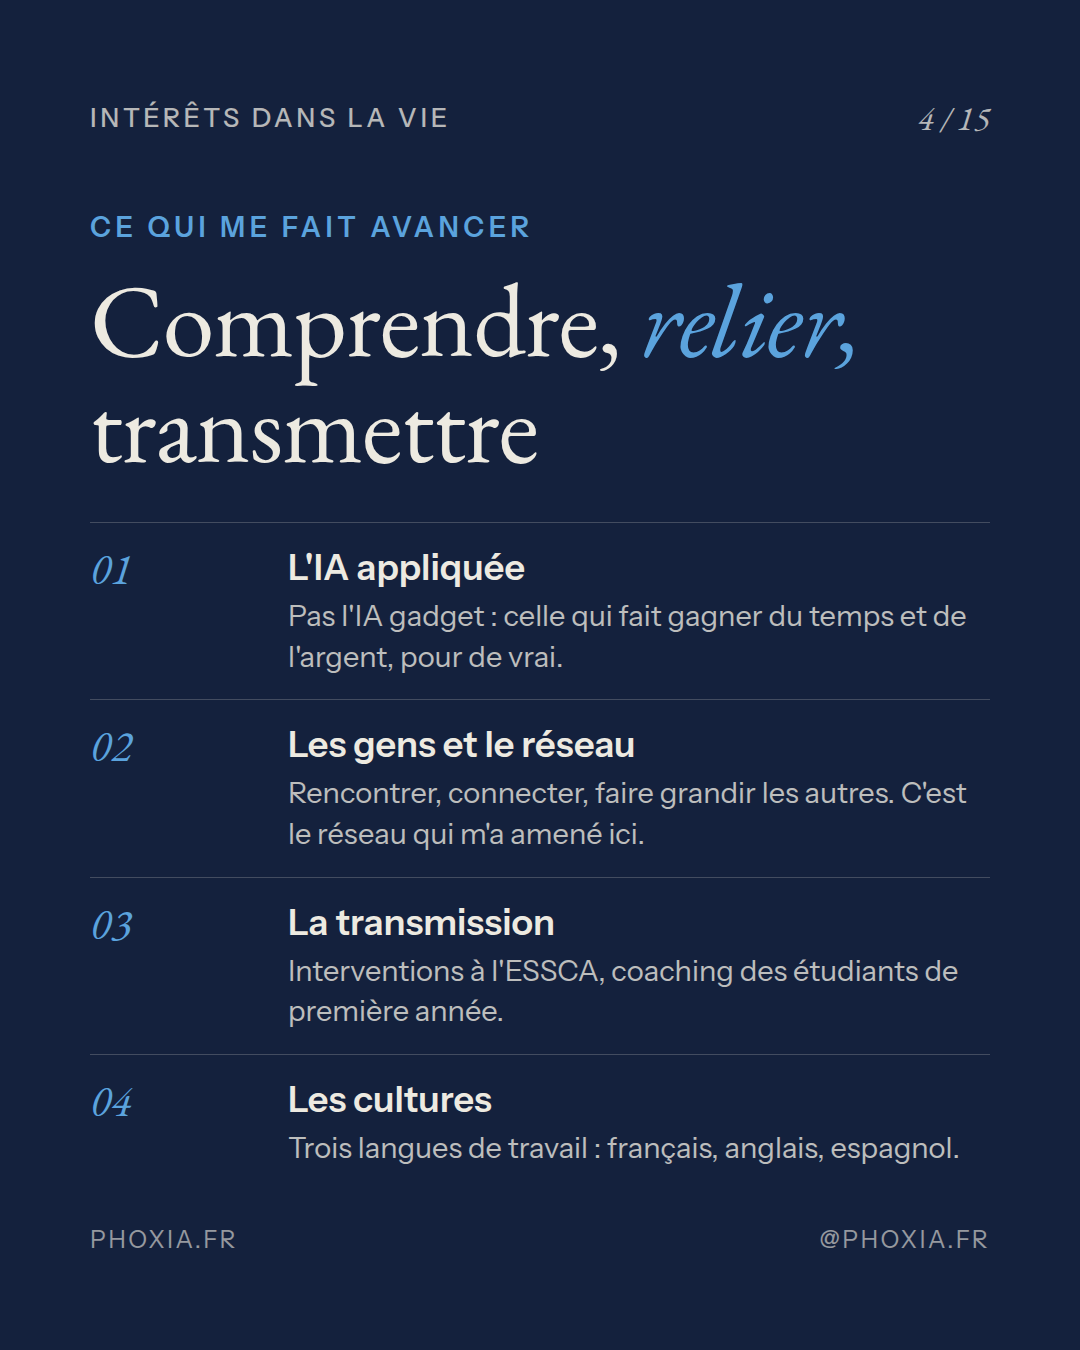
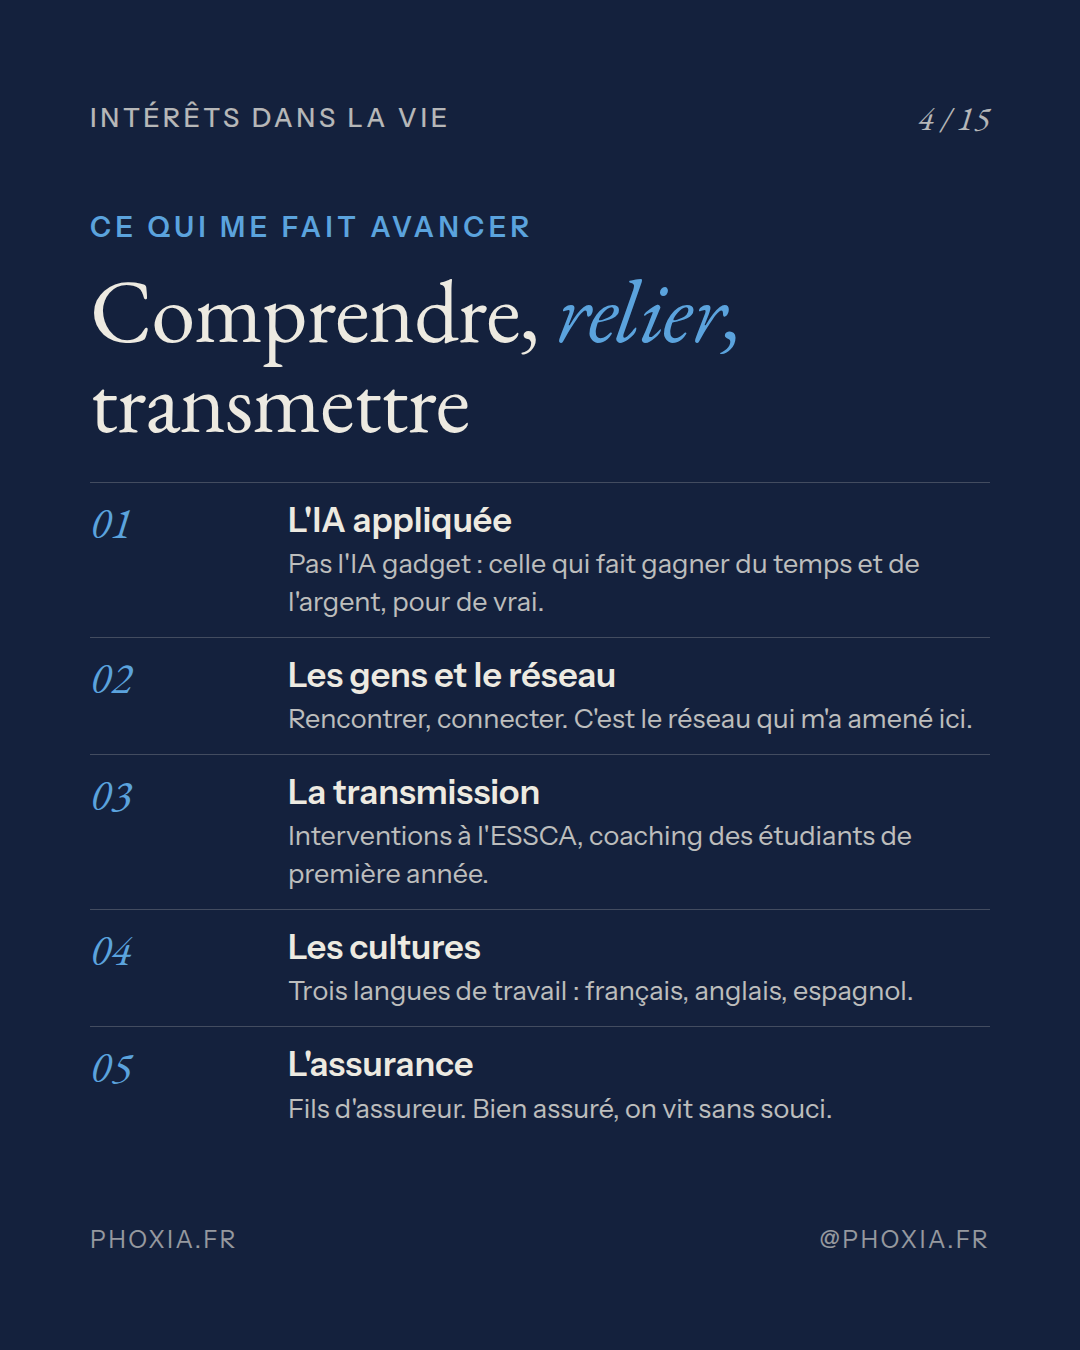
Carrousel Instagram : l'assurance dans les intérêts
Claude-Session: https://claude.ai/code/session_01TMTnMu3aN2J2VFEdaEERUD

diff --git a/instagram/presentation-mathieu/carrousel.html b/instagram/presentation-mathieu/carrousel.html
@@ -63,8 +63,11 @@
   #s2 h2 { font-size: 92px; }
   #s2 .liste { margin-top: 40px; gap: 22px; }
   #s2 .ligne { padding-top: 22px; }
-  #s4 .liste { margin-top: 44px; gap: 22px; }
-  #s4 .ligne { padding-top: 22px; }
+  #s4 h2 { font-size: 88px; }
+  #s4 .liste { margin-top: 36px; gap: 16px; }
+  #s4 .ligne { padding-top: 16px; }
+  #s4 .ligne span { font-size: 27px; margin-top: 4px; }
+  #s4 .ligne strong { font-size: 34px; }
   #s10 .liste { margin-top: 40px; gap: 24px; }
   .projet { background: rgba(237,234,225,.07); border: 1.5px solid rgba(237,234,225,.18); border-radius: 26px; padding: 30px 32px; }
   .projet img { width: 92px; height: 92px; border-radius: 20px; object-fit: cover; }
@@ -196,9 +199,10 @@
   <h2>Comprendre, <em>relier,</em> transmettre</h2>
   <div class="liste">
     <div class="ligne"><b>01</b><div><strong>L'IA appliquée</strong><span>Pas l'IA gadget : celle qui fait gagner du temps et de l'argent, pour de vrai.</span></div></div>
-    <div class="ligne"><b>02</b><div><strong>Les gens et le réseau</strong><span>Rencontrer, connecter, faire grandir les autres. C'est le réseau qui m'a amené ici.</span></div></div>
+    <div class="ligne"><b>02</b><div><strong>Les gens et le réseau</strong><span>Rencontrer, connecter. C'est le réseau qui m'a amené ici.</span></div></div>
     <div class="ligne"><b>03</b><div><strong>La transmission</strong><span>Interventions à l'ESSCA, coaching des étudiants de première année.</span></div></div>
     <div class="ligne"><b>04</b><div><strong>Les cultures</strong><span>Trois langues de travail : français, anglais, espagnol.</span></div></div>
+    <div class="ligne"><b>05</b><div><strong>L'assurance</strong><span>Fils d'assureur. Bien assuré, on vit sans souci.</span></div></div>
   </div>
   <div class="bas"><span>phoxia.fr</span><span>@phoxia.fr</span></div>
 </section>
